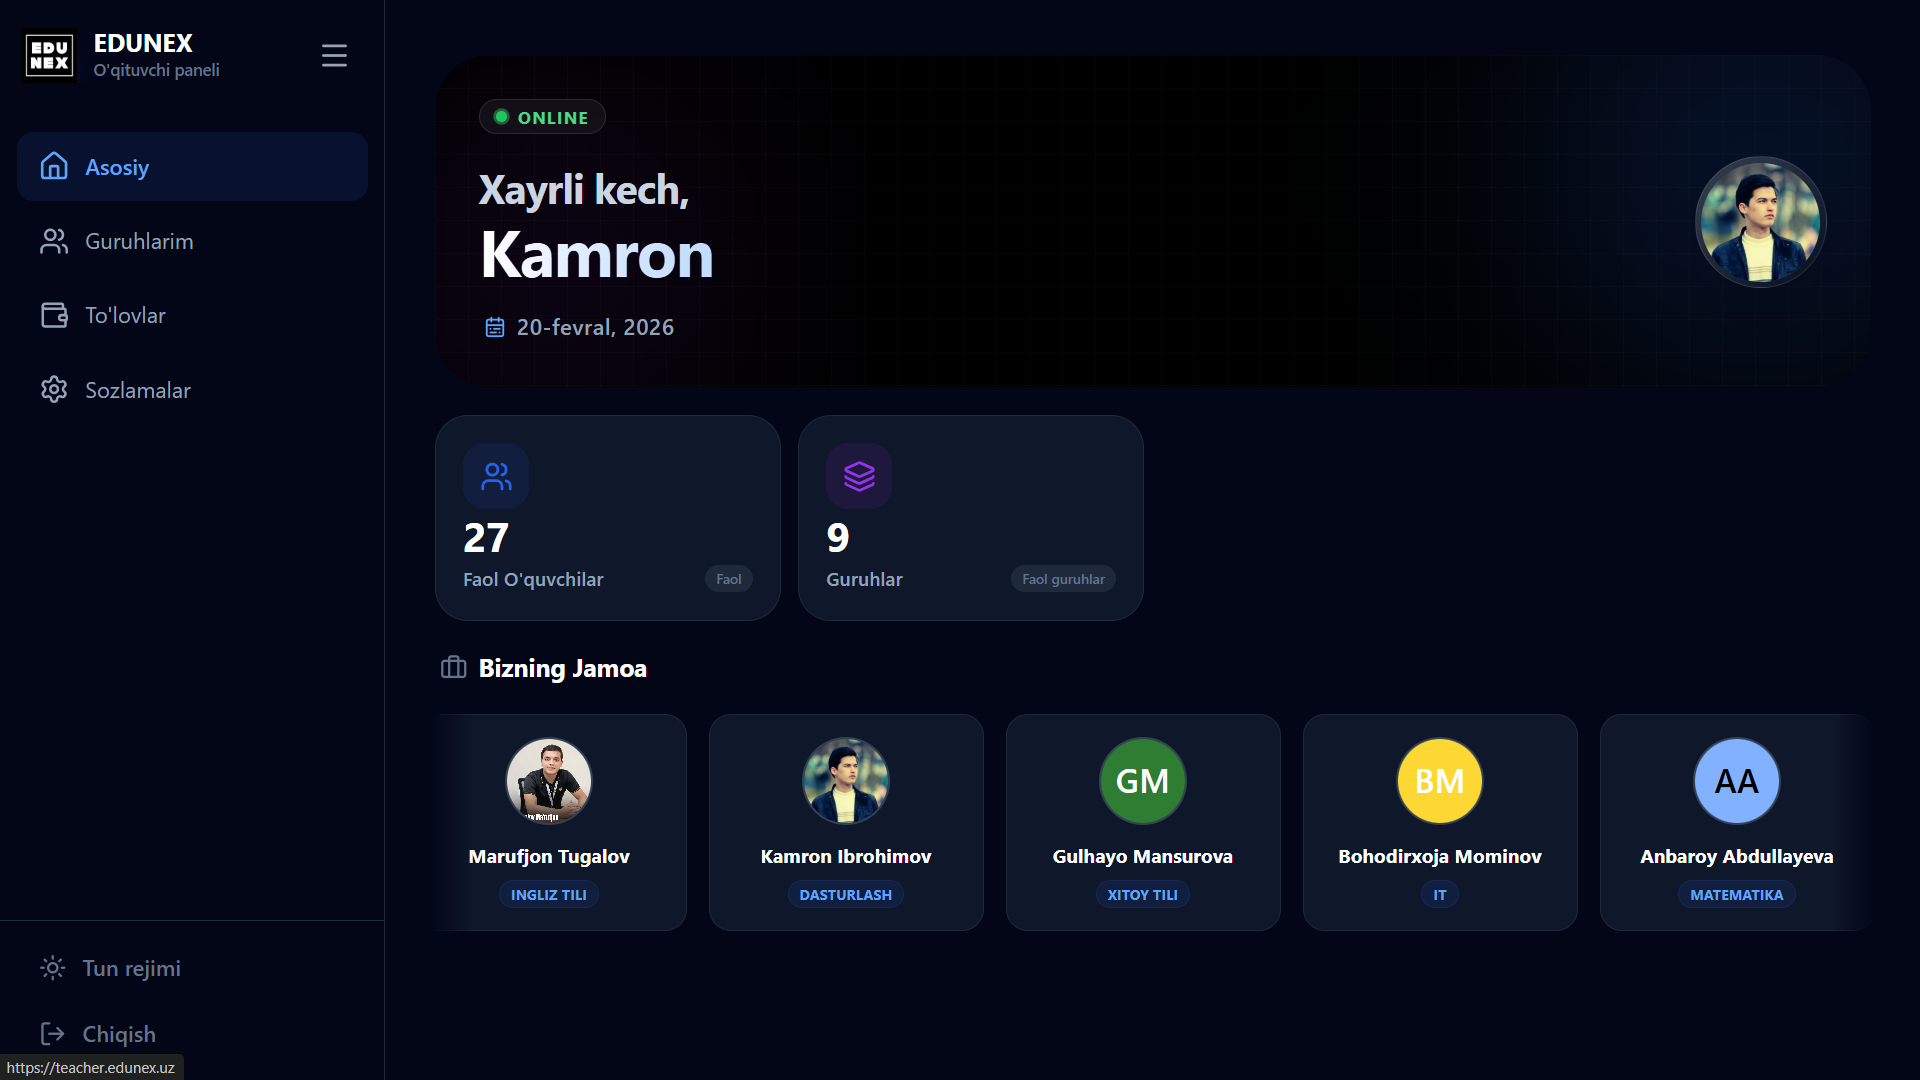
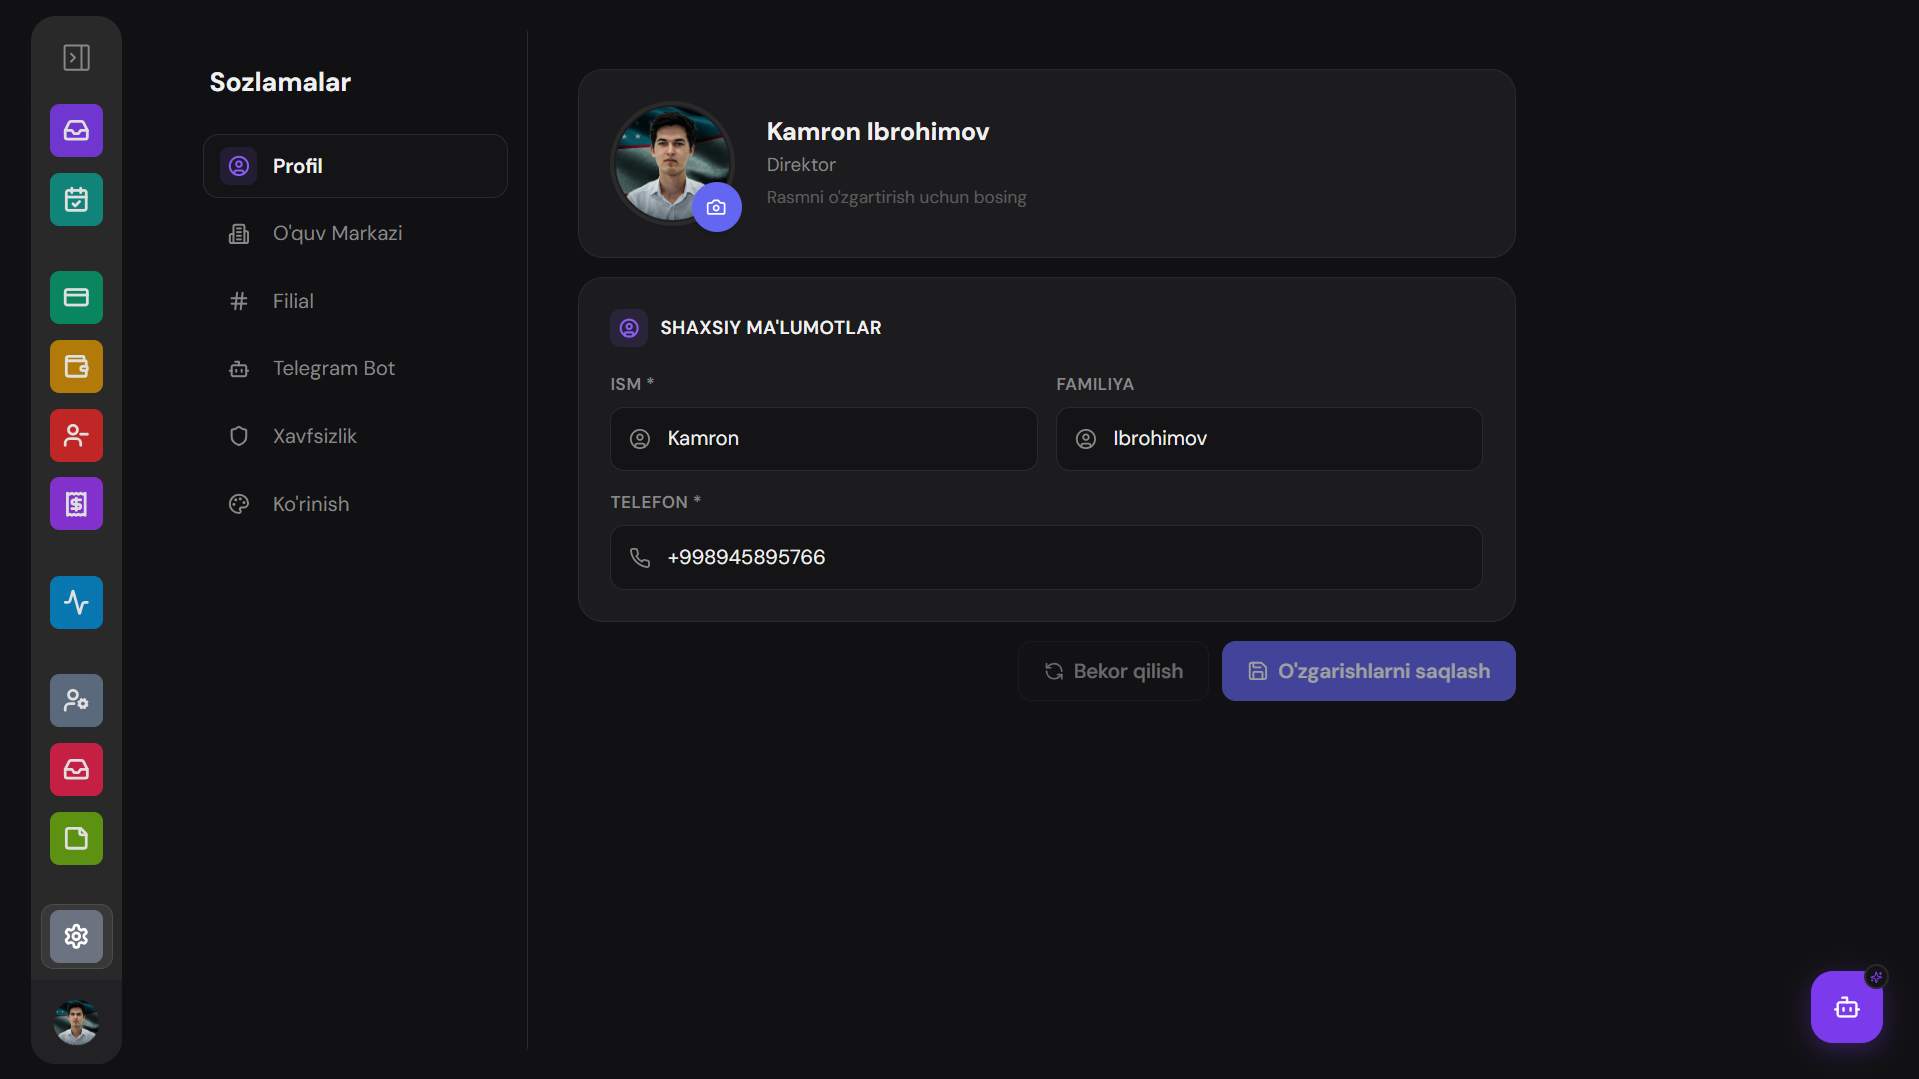
updated

diff --git a/src/components/Projects.jsx b/src/components/Projects.jsx
@@ -7,7 +7,7 @@ const projects = [
     desc: 'O\'quv markazini to\'liq tizimlashtirish uchun platforma. Director, Manager, Admin, Teacher va Studentlar uchun alohida Telegram bot va web panel. Har bir rol o\'z imkoniyatlariga ega.',
     tags: ['NestJS', 'Prisma', 'PostgreSQL', 'React.js', 'Tailwind CSS', 'AWS'],
     github: null,
-    live: 'https://edunex.uz',
+    live: 'https://crm.edunex.uz',
     images: [
       `${import.meta.env.BASE_URL}screenshots/project1/img1.png`,
       `${import.meta.env.BASE_URL}screenshots/project1/img2.png`,
@@ -62,13 +62,17 @@ const projects = [
     ],
   },
   {
-    title: 'Real-Time Chat App',
-    desc: 'Socket.io asosida qurilgan real vaqtli chat ilovasi. Guruhli xonalar, xususiy xabarlar, emoji va jonli onlayn holat ko\'rsatkichi. JWT autentifikatsiya bilan.',
-    tags: ['Node.js', 'Socket.io', 'React', 'TypeScript', 'MongoDB'],
+    title: 'Luvi Uz',
+    desc: 'Websocket qismi Stomp orqali qilingan. Video va Auido call qismida esa Jitsi kutubxonasi o\'zimizni serverga qo\'yilgan va keyin mos interface berilgan.',
+    tags: ['Next.js', 'Stompjs', 'React', 'TypeScript', 'Tailwindcss'],
     github: null,
-    live: 'https://chat.edunex.uz',
+    live: 'https://luvi.uz',
     gradient: 'linear-gradient(135deg, #6366f1 0%, #8b5cf6 100%)',
-    icon: '💬',
+    images: [
+      `${import.meta.env.BASE_URL}screenshots/project6/img1.png`,
+      `${import.meta.env.BASE_URL}screenshots/project6/img2.png`,
+      `${import.meta.env.BASE_URL}screenshots/project6/img3.png`,
+    ],
   },
 ]
 

diff --git a/src/components/Experience.jsx b/src/components/Experience.jsx
@@ -3,12 +3,12 @@ import styles from './Experience.module.css'
 const education = [
   {
     institution: 'Toshkent Davlat Pedagogika Universiteti',
-    degree: 'Matematika va Informatika o\'qituvchisi',
+    degree: 'Math and Computer science',
     period: '2021 — 2025',
     type: 'Bakalavr',
   },
   {
-    institution: 'Najot Ta\'lim',
+    institution: "Najot Ta'lim",
     degree: 'Fullstack Development Bootcamp',
     period: '2024',
     type: 'Bootcamp',
@@ -17,16 +17,16 @@ const education = [
 
 const work = [
   {
-    company: 'London Education o\'quv markazi',
-    role: 'Main Fullstack Mentor',
-    period: 'Mart 2025 — hozir',
+    company: 'Tenzor SOFT',
+    role: 'Fullstack Dasturchi',
+    period: 'Yanvar 2025 — Hozir',
     current: true,
   },
   {
-    company: 'Yakkasaroy 172-maktab',
-    role: 'Informatika o\'qituvchisi',
-    period: '2023',
-    current: false,
+    company: 'EduNex Startup',
+    role: 'Fullstack Dasturchi va Mentor',
+    period: '2025 — yil to\'liq',
+    current: true,
   },
 ]
 
